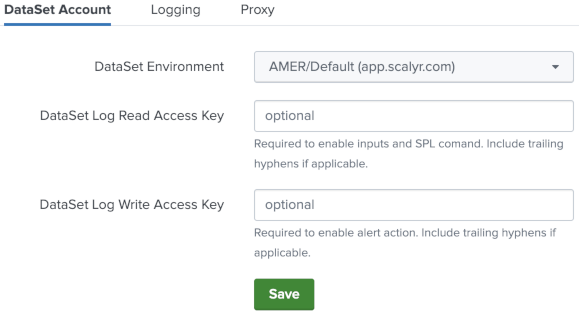
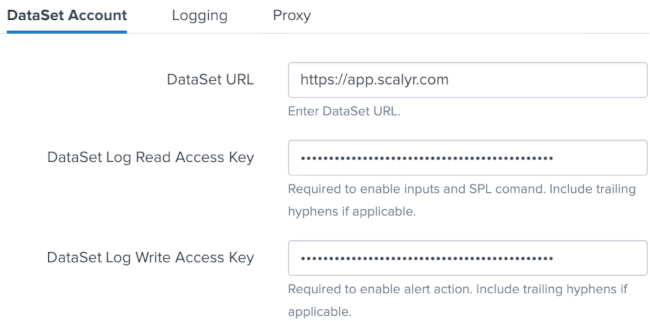
update url config

diff --git a/README.md b/README.md
@@ -25,7 +25,7 @@ Reference Splunk documentation for [installing add-ons](https://docs.splunk.com/
 
 ## Configuration
 ### Dataset
-1. Navigate to https://app.scalyr.com/keys
+1. Navigate to API Keys.
 
 ![Creating DataSet API keys](README_images/dataset_key.png)
 
@@ -39,14 +39,12 @@ Reference Splunk documentation for [installing add-ons](https://docs.splunk.com/
 ![Configuring DataSet Account](README_images/setup_account.png)
 
 2. In configuration on DataSet Account tab:
-- Select the environment.
+- Enter the DataSet URL (e.g.: `https://app.scalyr.com`).
 - Enter the DataSet read key.
 - Enter the DataSet write key.
 
 3. Optionally, configure logging level and proxy information on the associated tabs.
 4. Click Save.
-
-![Setup new input](README_images/setup_new_input.png)
 
 5. On the inputs page, click Create New Input and select the desired input
 
